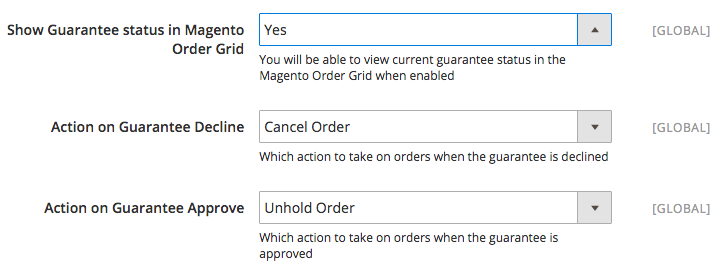
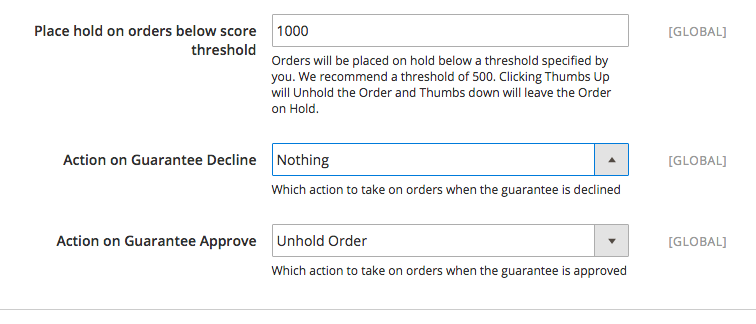
UserGuide corrections based on extension bug fixes and limitations. Added ReleaseNotes.

diff --git a/doc/UserGuide.md b/doc/UserGuide.md
@@ -49,7 +49,7 @@ You will need shell access to the host running your Magento2 installation along 
   - `chown -R www-data:www-data ${MAGENTO_HOME}/app/code/Signifyd/` and
   - `chmod -R u+w ${MAGENTO_HOME}/app/code/Signifyd/`.
 
-  Substitute the proper user and group for `www-data` if they are different.
+  Substitute the proper user and group for `www-data` if using different ones.
 6. Enable the plugin: `${MAGENTO_HOME}/bin/magento module:enable --clear-static-content Signifyd_Connect`
 7. Run setup:upgrade: `${MAGENTO_HOME}/bin/magento setup:upgrade`. You should see the line `Module 'Signifyd_Connect':` in the output.
 8. Re-enable the cache: `${MAGENTO_HOME}/bin/magento cache:enable --all`.
@@ -102,15 +102,14 @@ Setup for retrieving and displaying Signifyd scores is actually a two part proce
 
 #### In Magento
 1. Set **Retrieve Signifyd Scores** to **Yes**. This retrieves the score and stores it in the `signifyd_connect_case` table.
-2. Set **Show Scores in Magento Order Grid** to **Yes**. This will actually display the scores for your orders.
-3. Click the URL to confirm callback functionality. Here is what you should see if it is working.
+2. <del>Click the URL to confirm callback functionality.</del>
 
 ![Retrieve Scores](advanced_retrieve_scores.png)
 
 #### In Signifyd - webhook setup
 
 1. Go to Signifyd [`Settings > Notifications`](https://signifyd.com/settings/notifications).
-2. Paste the callback URL from Magento step 3 above.
+2. Enter the Signifyd callback URL for your store. The URL will be `https://<HOSTNAME-FOR-YOUR-STORE>/signifyd_webhooks/index/index`, e.g., `https://mymagento.example.com/signifyd_webhooks/index/index`.
 3. Choose the same team as the one you are using for your Magento store.
 4. Choose the **Case Creation** Event Type.
 5. Add the webhook. **NOTE:** you are only allowed one URL per team per event type so if you already have a webhook in place for a given team/event pair, it will need to be deleted before the new one can be added.
@@ -124,7 +123,7 @@ While you may choose to click "Test" by the new webhooks, this simply confirms t
 
 You can set the extension to automatically hold orders that have received risky, i.e., lower, scores for you own further review.
 
-1. Set **Hold score threshold** to 500 or a score of your choosing. A threshold of zero will hold no orders while 1000 will hold **all** orders.
+1. Set **Hold score threshold** to 500 or a score of your choosing. A threshold of zero will never hold orders while 1000 will hold **all** orders.
 ![Hold Orders](advanced_hold_orders.png)
 2. To check that the *On Hold* status is working, an order must be created either by a customer at your store or by placing a test order yourself. The order status from previously submitted orders will not be affected.
 3. To release orders in Magento, click the Signifyd Thumbs Up button in the Signifyd case console.
@@ -142,15 +141,13 @@ Once you have enrolled in a Complete Plan, you can integrate that feature into M
 
 
 1. Repeat the webhook setup procedure from **Show scores in Magento Order Grid** above for the Event Type **Guarantee Disposition**.
-2. Set **Place hold on orders below score threshold** to **Yes**.
-3. Set **Hold score threshold** mentioned above to 1000 to **hold all orders** until a Guarantee decision is made. **Don't do this if you are *not* on a complete plan!**
-4. Set **Show Guarantee status in Magento Order Grid** to **Yes**.
-5. Choose an **Action on Guarantee Decline** from the drop down menu.
-6. Choose an **Action on Guarantee Approve** from the drop down menu.
+2. Set **Hold score threshold** mentioned above to 1000 to **hold all orders** until a Guarantee decision is made. **Don't do this if you are *not* on a complete plan!**
+3. Choose an **Action on Guarantee Decline** from the drop down menu. **NOTE:** *the Cancel action is currently unavailable*.
+4. Choose an **Action on Guarantee Approve** from the drop down menu.
 
 ![Guarantees](advanced_guarantees.png)
 
-To check that the Guarantee status is working, an order must be created either by a customer at your store or by placing a test order yourself. Note that for the Actions in 5 and 6, **Nothing** is a valid option. However, if you have set all orders to be held in step 3, none will be unheld upon approval if no action is set to be applied. The Guarantee Status from orders submitted prior to enabling this integration will not display in your Magento order grid.
+To check that the Guarantee status is working, an order must be created either by a customer at your store or by placing a test order yourself. Note that for the Actions in 3 and 4, **Nothing** is a valid option. However, if you have set all orders to be held in step 2, none will be unheld upon approval if no action is set to be applied. The Guarantee Status from orders submitted prior to enabling this integration will not display in your Magento order grid.
 
 
 ## Troubleshooting

diff --git a/ReleaseNotes.md b/ReleaseNotes.md
@@ -1,0 +1,22 @@
+# SIGNIFYD Connect extension for Magento2
+
+## v1.0.0RC1 
+
+2015-01-01 - This is Release Candidate 1 of the new SIGNIFYD Connect extension for Magento2. It is largely based on the original Magento SIGNIFYD plugin with identical or similar functionality and configuration where possible:
+
+* Given an SIGNIFYD API key, the extension will automatically submit all new Orders to SIGNIFYD for risk evaluation.
+* Via webhooks, SIGNIFYD will send back scoring information within seconds which is displayed on the Magento2 Order Grid.
+* The user may configure a score threshold to automatically  place high risk orders **On Hold** for further review.
+* Customers of SIGNIFYD's Guarantee product can also receive guarantee results via webhooks which are also displayed on the Order Grid.
+* Customers can configure certain actions to occur on Guarantee events such as unholding **On Hold** orders upon approval.
+
+There are a few differences from the original plugin:
+
+* Display of SIGNIFYD columns in the Order Grid is now controlled with Magento2's own column controls rather than from the SIGNIFYD Connect config. This applies to both scores and guarantee dispositions.
+* Automatically canceling **On Hold** orders when a guarantee is declined is no longer allowed.
+
+
+Contact: [Brannon Smith](mailto:brannon@signifyd.com),
+
+SIGNIFYD Software Engineer
+
